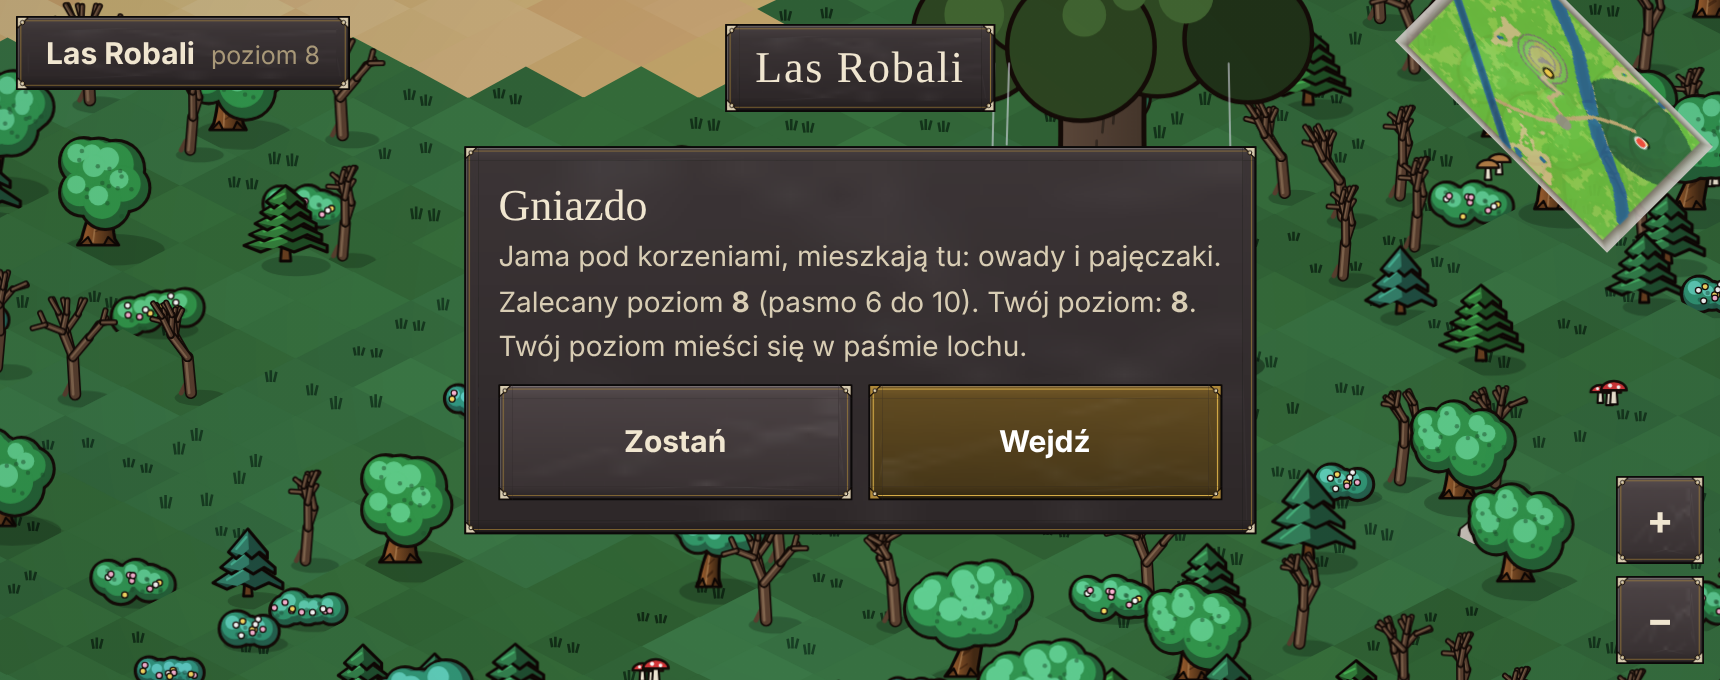
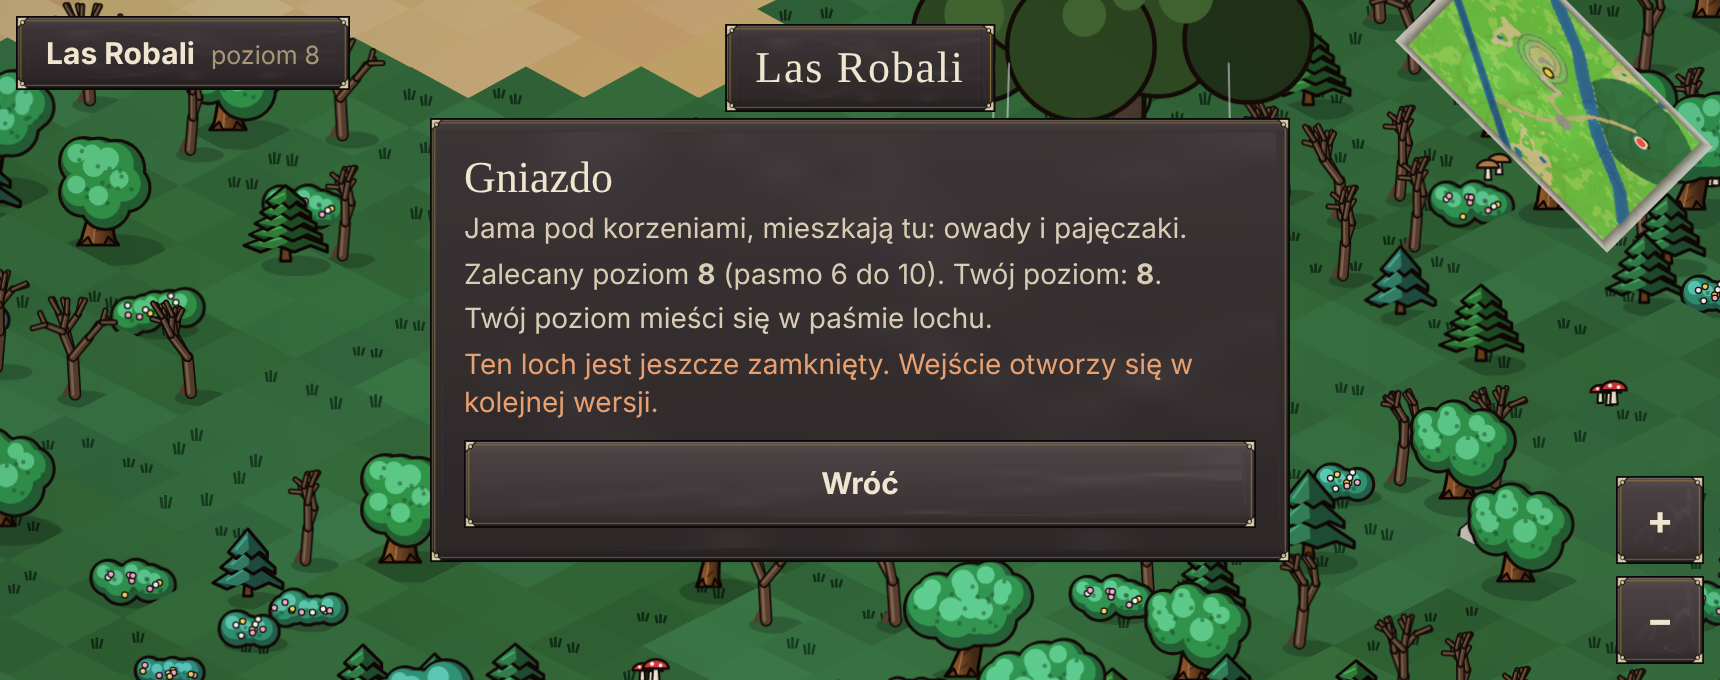
Świat: zgodność z danymi lochów, zamknięte wejście do Gniazda
Claude-Session: https://claude.ai/code/session_01YGgK3XekFYaLDhBRBtmmRq

Changed region(s): [[0.2465, 0.1544, 0.7703, 0.8338]]

diff --git a/www/swiat.html b/www/swiat.html
@@ -46,7 +46,8 @@ import {applyMood} from '../src/art/mood.js';
 import {loadCharacter} from '../src/game/save.js';
 installFrames();
 const $=id=>document.getElementById(id),Q=new URLSearchParams(location.search);
-const FALLBACK={podziemne_korytarze:{name:'Podziemne Korytarze',family:'Kopacze',rec:3,band:[2,6],theme:'kopacze',maxCompanions:2},gniazdo:{name:'Gniazdo',family:'owady i pajęczaki',rec:8,band:[6,10],theme:'pajaki',maxCompanions:2}};
+const FALLBACK={korytarze:{name:'Podziemne Korytarze',family:'kopacze',rec:3,band:[2,6],theme:'kopacze',maxCompanions:2,available:true},gniazdo:{name:'Gniazdo',family:'pajaki',rec:8,band:[6,10],theme:'pajaki',maxCompanions:2,available:false}};
+const FAM={kopacze:'Kopacze',pajaki:'owady i pajęczaki',wszystkie:'wszystkie rodziny'};
 let DUN=FALLBACK;try{const m=await import('../src/game/dungeons.js'),D=m.DUNGEONS;if(D){DUN=Array.isArray(D)?Object.fromEntries(D.map(d=>[d.id,d])):D;for(const k of Object.keys(FALLBACK))if(!DUN[k])DUN[k]=FALLBACK[k]}}catch(e){}
 const world=generateWorld(Number(Q.get('seed'))||1),wv=new WorldView(world),cv=$('c'),g=cv.getContext('2d');
 const SAVED=loadCharacter(),LEVEL=SAVED?.level||1;$('lvl').textContent='poziom '+LEVEL;
@@ -97,7 +98,7 @@ function arrive(){const p=pending;pending=null;if(!p)return;if(p.kind==='ent')op
 function openEntrance(i){
   const e=world.entrances[i],d=DUN[e.dungeon]||{name:e.name,family:'',rec:1,band:[1,5],theme:'arena'},[lo,hi]=d.band||[1,5];
   const cmp=LEVEL<lo?['w','Poniżej pasma lochu: wrogowie będą silniejsi od ciebie. Zabierz kompana albo wróć później.']:LEVEL>hi?['','Powyżej pasma: wrogowie będą słabsi, nagrody mniejsze.']:['','Twój poziom mieści się w paśmie lochu.'];
-  const c=$('card');c.innerHTML=`<h2>${d.name}</h2><p>${e.name}${d.family?`, mieszkają tu: ${d.family}`:''}.</p><p>Zalecany poziom <b>${d.rec}</b> (pasmo ${lo} do ${hi}). Twój poziom: <b>${LEVEL}</b>.</p><p class="${cmp[0]}">${cmp[1]}</p><div class="row"><button id="stay">Zostań</button><a class="go" id="enter" href="walka.html?dungeon=${e.dungeon}&theme=${d.theme||'arena'}&level=${LEVEL}">Wejdź</a></div>`;
+  const c=$('card');c.innerHTML=`<h2>${d.name}</h2><p>${e.name}${d.family?`, mieszkają tu: ${FAM[d.family]||d.family}`:''}.</p><p>Zalecany poziom <b>${d.rec}</b> (pasmo ${lo} do ${hi}). Twój poziom: <b>${LEVEL}</b>.</p><p class="${cmp[0]}">${cmp[1]}</p>${d.available===false?'<p class="w">Ten loch jest jeszcze zamknięty. Wejście otworzy się w kolejnej wersji.</p>':''}<div class="row"><button id="stay">${d.available===false?'Wróć':'Zostań'}</button>${d.available===false?'':`<a class="go" id="enter" href="walka.html?dungeon=${e.dungeon}&theme=${d.theme||'arena'}&level=${LEVEL}">Wejdź</a>`}</div>`;
   c.style.display='block';$('stay').onclick=()=>{c.style.display='none'};
 }
 function npcSay(n){const b=$('bubble');b.innerHTML=`<b>${n.name}</b>${n.line}`;b.style.display='block';bubbleT=6}

diff --git a/src/world/kraina.js b/src/world/kraina.js
@@ -23,7 +23,7 @@ const FORDS = [at(42, 14)];
 const FOREST_PATH = [at(92, 14), at(96, 19), at(98, 24), at(100, 26)];
 const RAVINE_E = -88;                      // przepaść na zachodzie (stała wartość x - y)
 export const ENTRANCES = [
-  { id: 'krypta', dungeon: 'podziemne_korytarze', kind: 'krypta', at: at(2, -26), name: 'Zawalona krypta' },
+  { id: 'krypta', dungeon: 'korytarze', kind: 'krypta', at: at(2, -26), name: 'Zawalona krypta' },
   { id: 'jama', dungeon: 'gniazdo', kind: 'jama', at: at(100, 26), name: 'Jama pod korzeniami' },
 ];
 
